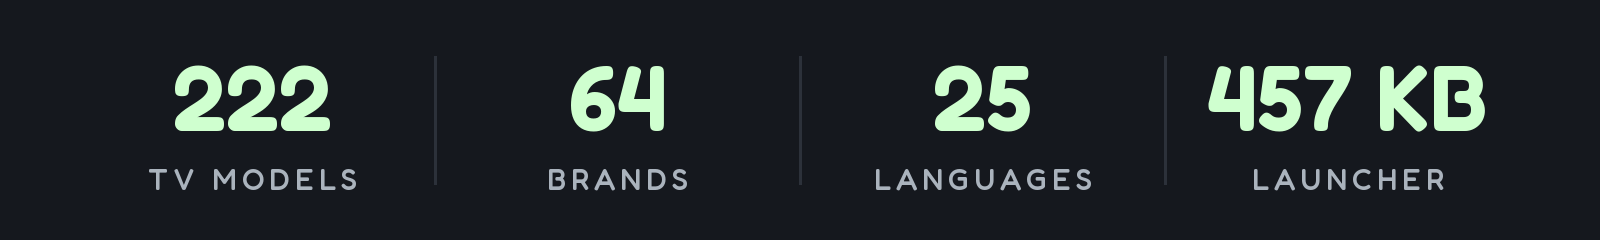
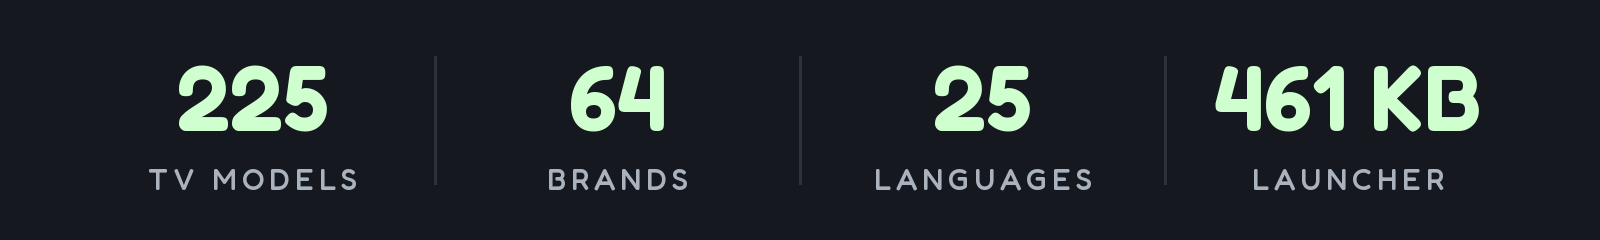
README: counts and card after Round O's second batch (225 TV models, 461 KB launcher, 85 articles from 23 countries)

Changed region(s): [[0.75, 0.2625, 0.9375, 0.5542], [0.0938, 0.2625, 0.2188, 0.5542]]

diff --git a/tools/readme_stats.py b/tools/readme_stats.py
@@ -5,7 +5,7 @@ and rebuild the card with tools/readme_card.py. Fredoka is the variable TTF from
 import sys
 from PIL import Image, ImageDraw, ImageFont
 FONT, OUT = sys.argv[1], sys.argv[2]
-STATS = [("222", "TV MODELS"), ("64", "BRANDS"), ("25", "LANGUAGES"), ("457 KB", "LAUNCHER")]
+STATS = [("225", "TV MODELS"), ("64", "BRANDS"), ("25", "LANGUAGES"), ("461 KB", "LAUNCHER")]
 W, H = 1600, 240
 img = Image.new("RGB", (W, H), "#15181e"); d = ImageDraw.Draw(img)
 def f(size, wt):

diff --git a/README.md b/README.md
@@ -17,7 +17,7 @@
 </p>
 
 <p align="center">
-  <a href="docs/PRESS.md"><img src="docs/card.jpg" alt="222 TV models · 64 brands · 25 languages · 457 KB launcher. Featured in TechCrunch, TechRadar, Tom's Guide, Mashable, Android Authority, XDA, FlatpanelsHD, It's FOSS, Phandroid, GIGAZINE, Xataka, WinFuture, Frandroid, Macitynet, Techaeris, TechPP and 69 more: 85 articles from 23 countries. Before: stock Google TV home with a sponsored ad. After: the Clean Your TV launcher." width="800"></a>
+  <a href="docs/PRESS.md"><img src="docs/card.jpg" alt="225 TV models · 64 brands · 25 languages · 461 KB launcher. Featured in TechCrunch, TechRadar, Tom's Guide, Mashable, Android Authority, XDA, FlatpanelsHD, It's FOSS, Phandroid, GIGAZINE, Xataka, WinFuture, Frandroid, Macitynet, Techaeris, TechPP and 69 more: 85 articles from 23 countries. Before: stock Google TV home with a sponsored ad. After: the Clean Your TV launcher." width="800"></a>
 </p>
 
 **The viral tweet:** [x.com/gathint/status/2111379569030939102](https://x.com/gathint/status/2111379569030939102)
@@ -99,7 +99,7 @@ Anything running **Android TV** or **Google TV**.
 
 Tested lists from contributors, one folder per model in [`examples/`](examples/):
 
-**TCL** 51 · **Xiaomi** 28 · **Sony** 25 · **Philips** 12 · **Hisense** 9 · **Skyworth** 9 · **Amazon Fire TV** 7 ·
+**TCL** 54 · **Xiaomi** 27 · **Sony** 26 · **Philips** 12 · **Hisense** 9 · **Skyworth** 9 · **Amazon Fire TV** 7 ·
 **Thomson** 4 · **BenQ** 3 · **Google** 3 · **Panasonic** 3 · **CHiQ** 2 · **FFalcon** 2 · **Haier** 2 · **Hitachi** 2 ·
 **Kalley** 2 · **Nokia** 2 · **NVIDIA Shield** 2 · **OnePlus** 2 · **onn** 2 · **Redmi** 2 · **Toshiba** 2 · **Vu** 2 ·
 AiPro2K · AIWA · Artel · Caxium · Cecotec · Challenger · Compac · Dialog · EKO · Freebox · Insignia Fire TV · JVC ·
@@ -371,7 +371,7 @@ tools/theme.sh themes/aurora                                 # push a theme; --r
 | [`tools/privacy.py`](tools/privacy.py) | Audits the TV for voice, ACR and telemetry candidates and prints the evidence for each; `--write` turns the findings into a list `disable.sh` and `restore.sh` already understand. |
 | [`tools/theme.sh`](tools/theme.sh) | Push a folder from [`themes/`](themes/) to the launcher and restart Home. |
 | [`tools/race_calendar.py`](tools/race_calendar.py) | Writes this season's F1 calendar into a theme for race-weekend mode, from the free Jolpica API. |
-| [`launcher/build-and-install.sh`](launcher/build-and-install.sh) | Builds a shrunk release (about 457 KB), installs it, switches Home, and rolls back if Home does not land on it. |
+| [`launcher/build-and-install.sh`](launcher/build-and-install.sh) | Builds a shrunk release (about 461 KB), installs it, switches Home, and rolls back if Home does not land on it. |
 
 The scripts never leave the TV without a Home app: they only disable a stock launcher they recognise,
 and skip the Home app in a list until another launcher answers HOME. Details below.
@@ -441,7 +441,7 @@ apps), which is why the report names that loss per package instead of calling it
 
 ## The launcher
 
-A small native home screen for Android TV: **about 457 KB**, plain Java, built for TVs with 1 GB of RAM.
+A small native home screen for Android TV: **about 461 KB**, plain Java, built for TVs with 1 GB of RAM.
 No blur, no video, no network permission, no background services.
 
 The **TV** needs Android 8.0 (API 26) or newer: `minSdk` is a compile-time floor in

diff --git a/.github/maintainer/MAINTAINER.md b/.github/maintainer/MAINTAINER.md
@@ -1,7 +1,7 @@
 # How CleanYourTV PRs are reviewed
 
 CleanYourTV (Gathin23/cleanyourtv) is a prompt plus tools that debloat Android TV / Google TV / Fire TV over
-ADB and a tiny native launcher (`launcher/`, plain Java, ~457 KB, for 1 GB TVs). Contributors mostly add
+ADB and a tiny native launcher (`launcher/`, plain Java, ~461 KB, for 1 GB TVs). Contributors mostly add
 tested TV lists under `examples/<tv>/`, translations, docs, small launcher options, themes, add-ons and tools.
 
 ## The policy: a small core plus a well-indexed hub
